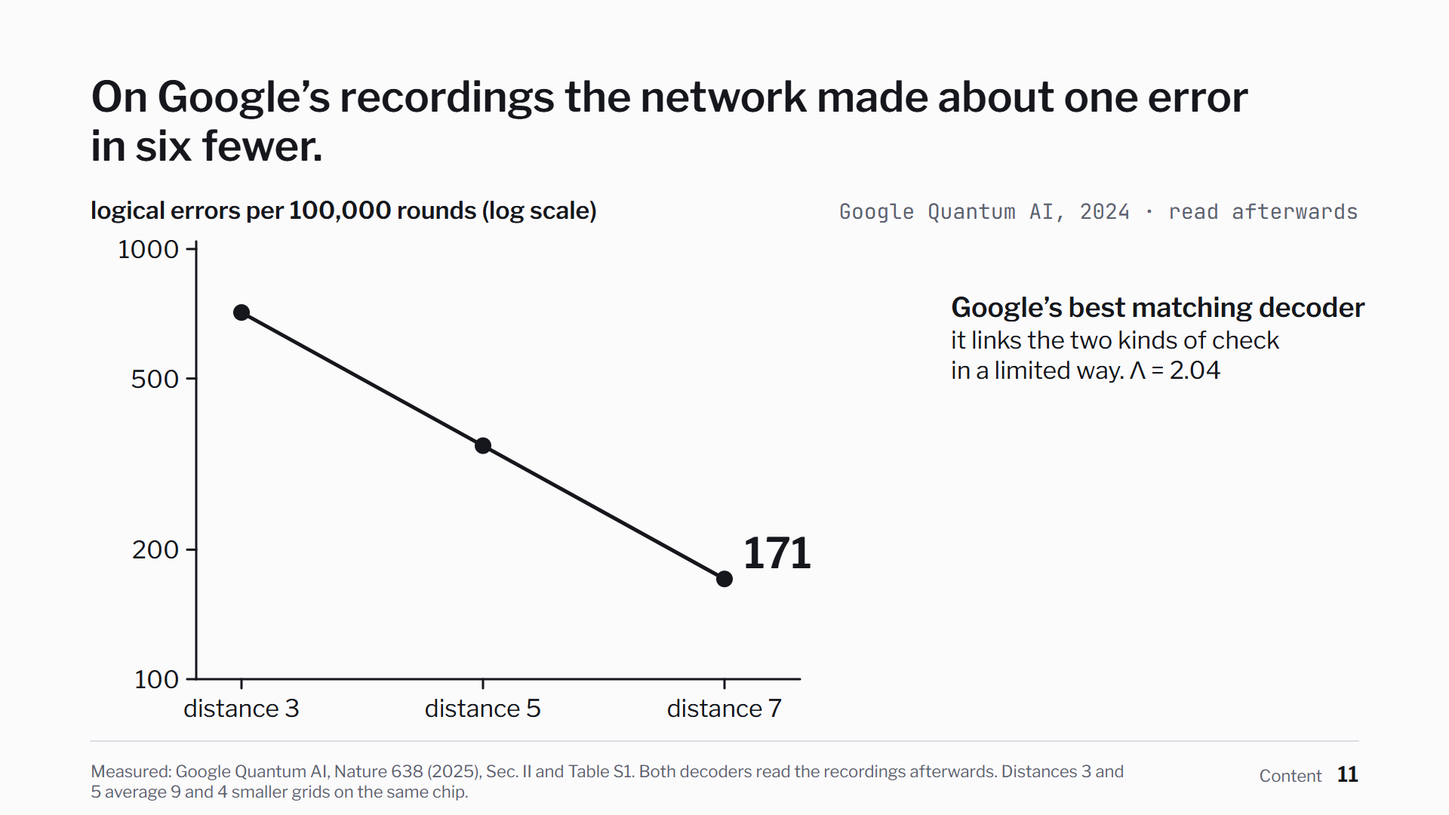
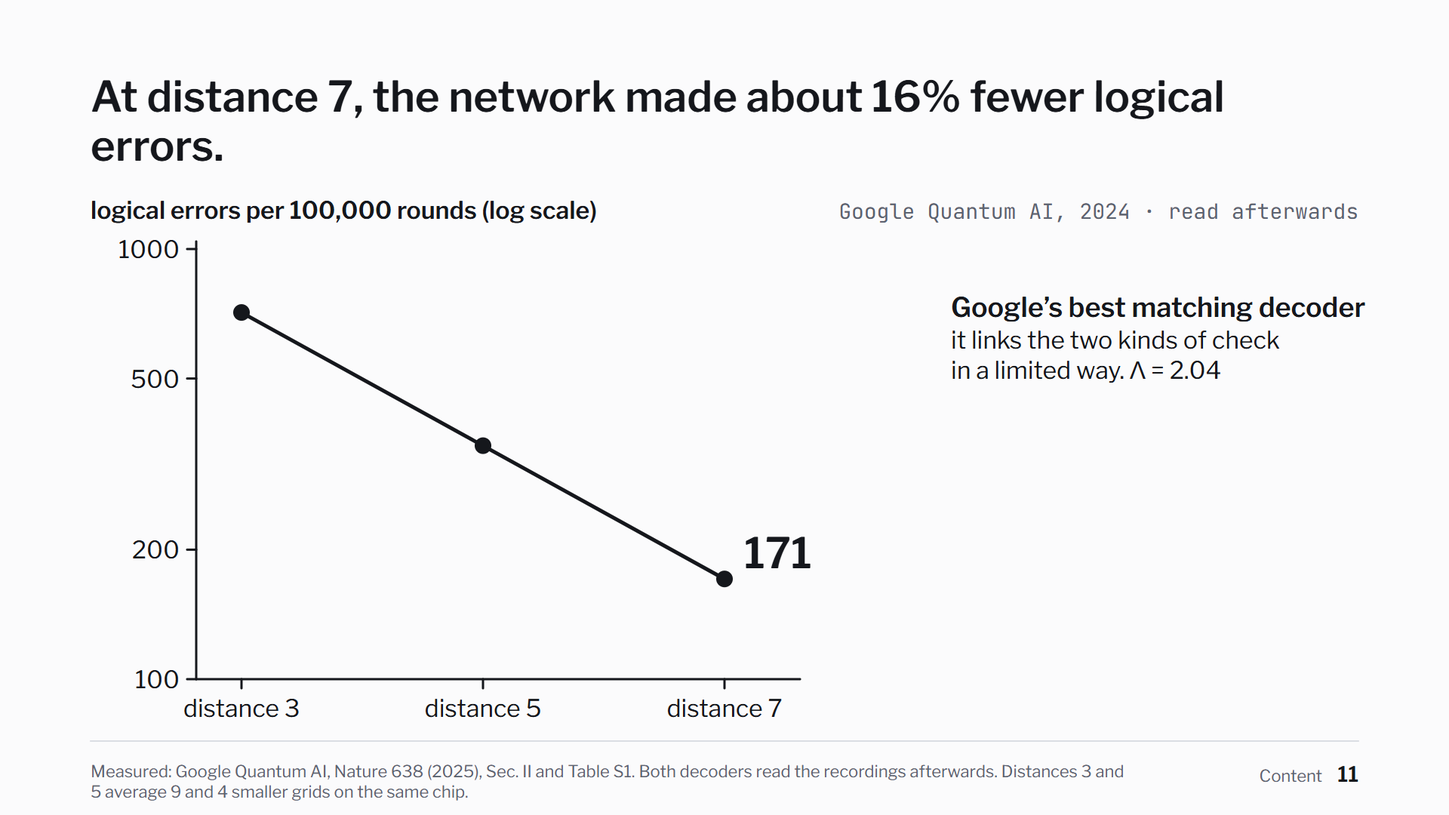
fix: qualify the measured quantum results

Changed region(s): [[0.0625, 0.0917, 0.875, 0.2139]]

diff --git a/articles/other-half/figures/noise.js b/articles/other-half/figures/noise.js
@@ -18,10 +18,10 @@ export const aspect = { wide: SIZE.wide[0] / SIZE.wide[1], tall: SIZE.tall[0] / 
 const WORDS = ['no', 'one', 'two', 'three', 'four', 'five', 'six', 'seven', 'eight'];
 
 function verdict(r) {
-  if (r.network_vs_correlated === 'level') return 'level with correlated';
+  if (r.network_vs_correlated === 'level') return 'intervals overlap';
   if (r.network_vs_correlated === 'ahead') return 'ahead of both';
   if (r.network_vs_plain === 'ahead') return 'between the two';
-  if (r.network_vs_plain === 'level') return 'level with plain';
+  if (r.network_vs_plain === 'level') return 'intervals overlap';
   return 'behind both';
 }
 // a round number just above v, for the top of a panel's scale
@@ -40,8 +40,8 @@ function build(el, ctx) {
   const runs = rows[0].network.pooled.shots;
   const svg = svgRoot(el, W, H,
     `Our own simulated runs at distance 5, network trained on ${Math.round(d.training_shots / 1e6)} million examples, ${nSeeds} seeds: share of runs in which each decoder was wrong at ${rows.length} noise levels. `
-    + rows.map((r) => `At ${pc(r.p)} the network is ${verdict(r)} (network ${pc(r.network.pooled.rate)}, plain matching ${pc(r.plain.pooled.rate)}, correlated matching ${pc(r.correlated.pooled.rate)})`).join('. ')
-    + '. At the lowest noise the network is level with correlated matching; as noise grows it falls behind it, and at the two highest levels it is behind plain matching too.');
+    + rows.map((r) => `At ${pc(r.p)} network versus matchers: ${verdict(r)} (network ${pc(r.network.pooled.rate)}, plain matching ${pc(r.plain.pooled.rate)}, correlated matching ${pc(r.correlated.pooled.rate)})`).join('. ')
+    + '. At the lowest noise the separate network and correlated matching intervals overlap. As noise grows the network fails more often than correlated matching, and at the two highest levels it also fails more often than plain matching.');
   svg.style.color = C.ink;
   const st = stage();
   const mono = { family: 'mono', size: 11.5, fill: C.muted };

diff --git a/talks/quantum/slides/01-recording/slide.js b/talks/quantum/slides/01-recording/slide.js
@@ -20,7 +20,7 @@ export default {
     T(toArticle(svg), L, 218, 'The other half of a quantum computer', { family: 'serif', size: 84, weight: 500 });
     if (b >= 1) {
       const [m, n] = data.suppression.decoders.map((d) => d.points.find((p) => p.distance === 7).per_100000_rounds);
-      const fewer = Math.round(m / (m - n));   // 171 / 28 ≈ 6: one error in six fewer
+      const fewer = Math.round(100 * (m - n) / m);
       T(svg, L, 298, this.title, { size: 48, weight: 600 });
       const [rx, ry] = at(1262, 410);
       T(svg, rx, ry, 'matching', { family: 'virgil', size: 44 });
@@ -29,7 +29,7 @@ export default {
       const [tx, ty] = at(1150, 750);
       T(svg, tx, ty, 'a neural network', { family: 'virgil', size: 44, anchor: 'end' });
       T(svg, tx, ty + 50, 'read afterwards:', { size: 32, weight: 600, fill: C.accent, anchor: 'end' });
-      T(svg, tx, ty + 92, `about one error in ${fewer === 6 ? 'six' : fewer} fewer`, { size: 32, weight: 600, fill: C.accent, anchor: 'end' });
+      T(svg, tx, ty + 92, `about ${fewer}% fewer logical errors`, { size: 32, weight: 600, fill: C.accent, anchor: 'end' });
     }
     frame(svg, {
       n: this.n, part: this.part,

diff --git a/talks/quantum/slides/11-google/slide.js b/talks/quantum/slides/11-google/slide.js
@@ -5,7 +5,7 @@ import { C, L, R, svgOf, T, frame, ln, pth, dot, inkLayer, PEN } from '../../kit
 
 export default {
   id: 'google', n: 11, part: 'Content', builds: 2, speaker: 'B',
-  title: 'On Google’s recordings the network made about one error in six fewer.',
+  title: 'At distance 7, the network made about 16% fewer logical errors.',
   clicks: ['Google’s best matching decoder', 'the network'],
   draw(page, b, data) {
     const svg = svgOf(page);

diff --git a/articles/other-half/text.md b/articles/other-half/text.md
@@ -21,7 +21,7 @@ Drawing: made with an image model from Alexander Rudaev's own line reference and
 
 A quantum chip can be excellent and the computer can still fail. The cause sits beside the chip: a program running on an ordinary computer.
 
-We came across this in a paper Google published in December 2024. It reports the first quantum memory that gets more reliable as it gets bigger, which nobody had managed before. One detail in it is easy to miss. Two programs read the same recording from the same chip and came out with different error rates. A neural network, a program that learns from examples, read it better than the standard program almost every experiment uses. {{GQA-2024}}
+We came across this in a paper Google published in December 2024. On its Willow chip, a surface-code memory got more reliable at each of three grid sizes. One detail in it is easy to miss. Two programs read the same recording from the same chip and came out with different error rates. A neural network, a program that learns from examples, read it better than the standard program almost every experiment uses. {{GQA-2024}}
 
 So we set ourselves three questions: what the program has to do, why a network can do it better, and at what cost. We answer them in the order we understood them.
 
@@ -134,7 +134,7 @@ Google first showed, in 2023, a grid of distance 5 that beat distance 3, but onl
 
 The factor by which the error shrinks per step is written **Λ** (lambda), and it decides how big a useful machine has to be. With Λ near 2, halving the error once more means going from distance 7 to distance 9: from 97 data and check qubits to 161. {{GQA-2024 OWN-ARITH}} That one halving costs 64 more qubits in the grid itself. Google used four extra qubits at distance 7 to remove leakage.
 
-Google read the same recorded data with two decoders. Its best matching decoder already links the two kinds of check in a limited way – the idea behind the correlated matching we use in section 9. It learns no rules of its own, though its error weights were tuned on the chip's data. It gave Λ = 2.04, and a neural network gave Λ = 2.14. At distance 7 the matching decoder's logical error rate was 171 per 100,000 rounds and the network's 143, about one in six fewer. {{GQA-2024}} Same chip, same data; only the reader changed.
+Google read the same recorded data with two decoders. Its best matching decoder already links the two kinds of check in a limited way – the idea behind the correlated matching we use in section 9. It learns no rules of its own, though its error weights were tuned on the chip's data. It gave Λ = 2.04, and a neural network gave Λ = 2.14. At distance 7 the matching decoder's logical error rate was 171 per 100,000 rounds and the network's 143, about 16% fewer. {{GQA-2024}} Same chip, same data; only the reader changed.
 
 Other labs have got below the threshold with other hardware, some with decoders that learn {{NA-2025 QTN-2026 QTN-PR-2026 USTC-2025}}, and IBM has shown in simulation a fast one that doesn't {{IBM-RELAY-2025 IBM-FPGA-2025}}. None of these results settles which route is best.
 
@@ -171,7 +171,7 @@ A December 2025 preprint reports that a network averaged under one millionth of 
 
 ## 9. What we measured ourselves
 
-We can't build a chip and we can't match Google's network. We can measure, in simulation, what a small neural decoder costs to train and run. The short answer: on the smallest grid our network soon beats plain matching; one grid larger it passed plain matching with a budget of about 250 million examples, and stayed behind correlated matching except at the lowest noise level. We simulate the surface code with Stim, a free simulator written at Google. {{STIM-2021}}
+We can't build a chip and we can't match Google's network. We can measure, in simulation, what a small neural decoder costs to train and run. The short answer: on the smallest grid our network soon beats plain matching; one grid larger it passed plain matching with a budget of about 250 million examples, and had a higher observed failure rate than correlated matching at every setting except the lowest. We simulate the surface code with Stim, a free simulator written at Google. {{STIM-2021}}
 
 We wanted three measurements. First, whether a small network beats matching, and how its results change with the tested training budgets at distances 3 and 5. Second, how long each decoder takes per run of three or five rounds on the same machine, next to how often it's wrong. Third, whether a network trained in simulation still works on the recordings Google has made public {{GQA-DATA-2022 GQA-DATA-2024}}, before and after it has seen some of them. We did the first, part of the second, and not the third.
 
@@ -183,7 +183,7 @@ Each training was repeated from different random starting points, or seeds: eigh
 
 :::scene learning
 
-@caption Our own runs, at a noise level of 0.5%. Share of simulated runs in which a decoder was wrong, against the number of examples the network had seen; one thin line per seed. The two level lines are plain and correlated matching, which need no examples. Distance 3: the network ends below both, but its lead over correlated matching is about what a library defect costs that decoder (see "A finding we didn't plan for"). Distance 5 after 66 million examples: above both. Distance 5 after 250 million: below plain matching, above correlated matching. Points along a curve are scored on 1 million runs, not the final test's 2 million, so the crossings are less sharp than the end values.
+@caption Our own runs, at a noise level of 0.5%. Share of simulated runs in which a decoder was wrong, against the number of examples the network had seen; one thin line per seed. The two level lines are plain and correlated matching, which need no examples. Distance 3: the network ends below both, but its lead over correlated matching is about the size of the anomaly we observed with that decoder (see "A finding we didn't plan for"). Distance 5 after 66 million examples: above both. Distance 5 after 250 million: below plain matching, above correlated matching. Points along a curve are scored on 1 million runs, not the final test's 2 million, so the crossings are less sharp than the end values.
 
 @step 0
 **Distance 3.** Here the network beats plain matching, and early. After about 66 million examples it failed in 1.48% of runs, its eight seeds between 1.46% and 1.49%. Plain matching failed in 1.72% and correlated matching in 1.66%. The curves first dip below plain matching at 6.6 million examples in four seeds and at 9.3 million in the other four. By 13 million all eight were at or below correlated matching. {{OWN-D3}} That second win we don't count. In our library version correlated matching mishandles six single errors, and by a first-order estimate that costs it about the whole gap of 0.18 percentage points (see "A finding we didn't plan for").
@@ -199,7 +199,7 @@ Each training was repeated from different random starting points, or seeds: eigh
 At distance 3 the best answer for every pattern can simply be looked up. A table built from 200 million runs per noise level, a hundred times the test set, holds the more frequent answer for each pattern of fired checks. It failed in 1.47% of runs. {{OWN-D3}} Its runs come from different random seeds than the test runs, and for a pattern it never saw, or saw equally often with either answer, it falls back to plain matching: about 0.15% of the test runs at 0.5%. {{OWN-D3}} That table is our estimate of the best possible. The network's 1.48% is barely above it.
 
 :::figure noise wide
-Distance 5, network trained on about 250 million examples: share of runs in which each decoder was wrong, at eight noise levels, with 95% intervals. Five seeds together, 10 million runs per noise level. At 0.1% the network and correlated matching can't be told apart. From 0.2% the network is behind correlated matching, and from 0.8% it is behind plain matching too. Our own runs.
+Distance 5, network trained on about 250 million examples: share of runs in which each decoder was wrong, at eight noise levels, with 95% intervals. Five seeds together, 10 million runs per noise level. At 0.1% their separate 95% intervals overlap. We did not estimate uncertainty for the paired difference. From 0.2% the network is behind correlated matching, and from 0.8% it is behind plain matching too. Our own runs.
 :::
 
 **A finding we didn't plan for.** We had expected correlated matching to be at least as good as plain matching everywhere. At distance 5 it was, at every noise level we tried. At distance 3 and low noise it was worse. On 4 million runs at a noise level of 0.1%, with both decoders reading the same runs, plain matching failed in 0.075% (0.073% to 0.078%). Correlated matching failed in 0.113% (0.109% to 0.116%), about one and a half times as many failures. At 0.3% it was still worse, 0.705% against 0.659%. From 0.4% upwards it was the better one. When we stored the other kind of value, it was again worse at 0.1%: 0.0986% against 0.0856%. {{OWN-CORR OWN-D3}}
@@ -214,7 +214,7 @@ At distances 5 and 7 no single error defeats correlated matching. At distance 5 
 
 **Learning rate.** How many more examples it would take to reach correlated matching, we can't say. The curves were still falling at the last point. But the last fifth of every run also lowers the learning rate, the size of the network's adjustments, and that alone brings the error down; with the same seed, a long and a short run are identical until the short one starts lowering it, at 52 million examples. {{OWN-D5-250M}} So the final slope may promise too much.
 
-**Against the noise level.** At the lowest noise level, one the network never saw in training, it is level with correlated matching: 0.0099% of runs failed, about one in ten thousand, against 0.0105%. From a noise level of 0.2% it fails more often than correlated matching: 8% more there, and a fifth to a quarter more from 0.4% on. Against plain matching it is ahead up to 0.6%, where four of five seeds still lead and the fifth is level, and behind in every seed from 0.8%. {{OWN-D5-250M}} The pooled intervals count only the chance in the test runs; the five networks differ from each other far more.
+**Against the noise level.** At the lowest noise level, one the network never saw in training, 0.0099% of network runs failed, about one in ten thousand, against 0.0105% for correlated matching. Their separate 95% intervals overlap. From a noise level of 0.2% it fails more often than correlated matching: 8% more there, and a fifth to a quarter more from 0.4% on. Against plain matching it is ahead up to 0.6%, where four of five seeds still lead and the fifth is level, and behind in every seed from 0.8%. {{OWN-D5-250M}} The pooled intervals count only the chance in the test runs; the five networks differ from each other far more.
 
 **Over noise levels.** The five long runs were also tested at eight noise levels, with 2 million runs each. The table pools them, 10 million runs per noise level, and gives the lowest and the highest seed beside the network's value. {{OWN-D5-250M}}
 
@@ -233,7 +233,7 @@ At distances 5 and 7 no single error defeats correlated matching. At distance 5 
 
 Decoding we timed only roughly: on one laptop core, with an untrained network of the same size, as an average over a large batch, and on a machine that has to emulate the processor our software was built for. There the network took between 14 and 27 millionths of a second per run whatever the noise, while matching got faster as errors got rarer. At distance 3 the network was about 20 times slower than plain matching. At distance 5, taking its two timings together (about 17 millionths of a second), it was about twice as slow at a noise level of 0.5% and about ten times as slow at 0.1%. Repeat timings of the same network varied by about half, so these ratios are rough. {{OWN-TIME}} Per round, these times are three or five times shorter. None of this is a live decoder on its own hardware, so we don't set it against the chip's clock.
 
-**A second implementation.** We also had the main result rerun by code that shares nothing with ours: a script and network written by an AI agent from only a description of the claim, without seeing ours, and run on Kaggle. At distance 3 its networks also beat plain matching, failing in 1.46% to 1.48% of runs against 1.71% to 1.73%, also at our network size; against correlated matching (1.66% to 1.67%) the same library defect may apply. At distance 5, after about 250 million examples, its network also ended between the two matchers, closer to correlated matching than ours: 1.15% and 1.16% against 1.09%. Unlike ours, they trained only at their test noise level, 0.5%, which favours them there. But that network is about twenty times larger, with 3.3 million adjustable numbers. At our size its script reached only 1.51%, behind plain matching, where ours reached 1.33%. It ran two seeds for each larger network at the main setting and one at our size, and did not test the finding about correlated matching. {{OWN-REPL}} So the order of the three decoders held up where it is clean, at distance 5. How far a small network gets depends on its training.
+**A second implementation.** We also had the main result rerun by code that shares nothing with ours: a script and network written by an AI agent from only a description of the claim, without seeing ours, and run on Kaggle. At distance 3 its networks also beat plain matching, failing in 1.46% to 1.48% of runs against 1.71% to 1.73%, also at our network size; against correlated matching (1.66% to 1.67%) the same anomaly may apply. At distance 5, after about 250 million examples, its network also ended between the two matchers, closer to correlated matching than ours: 1.15% and 1.16% against 1.09%. Unlike ours, they trained only at their test noise level, 0.5%, which favours them there. But that network is about twenty times larger, with 3.3 million adjustable numbers. At our size its script reached only 1.51%, behind plain matching, where ours reached 1.33%. It ran two seeds for each larger network at the main setting and one at our size, and did not test the finding about correlated matching. {{OWN-REPL}} So the order of the three decoders held up where it is clean, at distance 5. How far a small network gets depends on its training.
 
 :::
 
@@ -265,7 +265,7 @@ Our numbers come from small grids and from a network far smaller than Google's. 
 | Logical error | Real errors and the decoder's correction together make a line across the grid: the stored value changes and no check fires | Section 5 |
 | Matching | The standard decoder: it joins fired checks to each other or to the edge along the shortest lines | Section 6 |
 | Λ (lambda) | The factor by which the logical error rate shrinks when the distance grows by two | Section 7 |
-| Noise level | In our simulation, the chance that any one operation goes wrong | Section 9 |
+| Noise level | The probability shared by the four circuit-noise settings in our simulation | Section 9 |
 | Correlated matching | Matching in two passes, where the first pass informs the second | Section 9 |
 
 ## How this was made

diff --git a/talks/quantum/CUES.md b/talks/quantum/CUES.md
@@ -7,30 +7,30 @@ Generated by `node tools/qdeck.mjs` from each slide's `notes.md`. Times: the not
 | 1 | 1 recording | 0:00 | 1 of 2 | the talk, the drawing |  |
 | 2 | 1 recording |  | 2 of 2 | two readers, two rates | One recording from Google’s chip gave two error rates. |
 | 3 | 2 threshold | 0:56 | 1 of 1 | the hardware error rate against the size of the job | One uncorrected slip can spoil the answer. |
-| 4 | 3 logical | 1:43 | 1 of 1 | three qubits together; no copy | A logical qubit keeps its value in how its qubits relate. |
-| 5 | 4 grid | 2:34 | 1 of 3 | distance 3 |  |
+| 4 | 3 logical | 1:42 | 1 of 1 | three qubits together; no copy | A logical qubit keeps its value in how its qubits relate. |
+| 5 | 4 grid | 2:33 | 1 of 3 | distance 3 |  |
 | 6 | 4 grid |  | 2 of 3 | distance 5 |  |
 | 7 | 4 grid |  | 3 of 3 | distance 7 | Only about half of a logical qubit’s qubits store anything. |
 | 8 | 5 checks | 3:04 | 1 of 3 | the grid and its two kinds of check |  |
 | 9 | 5 checks |  | 2 of 3 | one flip: two checks fire |  |
 | 10 | 5 checks |  | 3 of 3 | a line of two: only its end fires | A check fires when its answer changes. |
-| 11 | 6 film | 4:14 | 1 of 3 | the film and its enlarged frame |  |
+| 11 | 6 film | 4:13 | 1 of 3 | the film and its enlarged frame |  |
 | 12 | 6 film |  | 2 of 3 | what the film is |  |
 | 13 | 6 film |  | 3 of 3 | what a frame says | One film frame shows what changed in that round. |
-| 14 | 7 matching | 5:06 | 1 of 1 | the pairing puzzle | The standard decoder, matching, pairs fired checks along the cheapest lines. |
+| 14 | 7 matching | 5:05 | 1 of 1 | the pairing puzzle | The standard decoder, matching, pairs fired checks along the cheapest lines. |
 | 15 | 8 silent | 5:45 | 1 of 1 | the flips, the fired check, the silent error | One check fires. The wrong correction leaves a silent error. |
 | 16 | 9 patterns | 6:26 | 1 of 1 | distinct patterns and their share of rounds | We counted patterns and how often they occur. |
 | 17 | 10 two-ways | 7:24 | 1 of 2 | the three fired checks and plain matching’s choice |  |
 | 18 | 10 two-ways |  | 2 of 2 | the two leading cases and their total | Two likely error patterns point to the same logical outcome. |
 | 19 | 11 google | 8:26 | 1 of 2 | Google’s best matching decoder |  |
-| 20 | 11 google |  | 2 of 2 | the network | On Google’s recordings the network made about one error in six fewer. |
-| 21 | 12 clock | 9:29 | 1 of 2 | the chip’s rounds and the network’s answers |  |
+| 20 | 11 google |  | 2 of 2 | the network | At distance 7, the network made about 16% fewer logical errors. |
+| 21 | 12 clock | 9:28 | 1 of 2 | the chip’s rounds and the network’s answers |  |
 | 22 | 12 clock |  | 2 of 2 | live matching, another setup | The network needed 24 millionths of a second for a round the chip finishes in 1.1. |
-| 23 | 13 method | 10:29 | 1 of 2 | the pipeline |  |
+| 23 | 13 method | 10:28 | 1 of 2 | the pipeline |  |
 | 24 | 13 method |  | 2 of 2 | what it is compared with; the stop rule | We trained a small network in simulation and wrote down our stop rule first. |
-| 25 | 14 ours | 11:30 | 1 of 2 | distance 3; distance 5 after 66 million |  |
+| 25 | 14 ours | 11:29 | 1 of 2 | distance 3; distance 5 after 66 million |  |
 | 26 | 14 ours |  | 2 of 2 | distance 5, about 250 million | Our distance-5 network finished between the two matchers. |
-| 27 | 15 properties | 12:26 | 1 of 2 | four properties |  |
+| 27 | 15 properties | 12:25 | 1 of 2 | four properties |  |
 | 28 | 15 properties |  | 2 of 2 | laptop estimate and the open recordings test | A decoder gives no quantum speed-up, but its accuracy changes how big a useful machine must be. |
 | 29 | end questions |  | 1 of 1 | questions | Questions |
 | 30 | BB1 uncompute |  | 1 of 1 | backup | A helper learns only the parity, and is reset for the next round. |
@@ -42,11 +42,11 @@ Generated by `node tools/qdeck.mjs` from each slide's `notes.md`. Times: the not
 | 36 | BB7 preprint |  | 1 of 1 | backup | AlphaQubit 2 reports the throughput needed for a superconducting chip. |
 | 37 | BB8 recordings |  | 1 of 1 | backup | The test on Google’s public recordings is still open. |
 
-**Main talk:** 1565 words, 13:30 in all. Contrast sentences in the notes: 0.
+**Main talk:** 1563 words, 13:29 in all. Contrast sentences in the notes: 0.
 
 | Slide | Seconds | Words |
 | ---: | ---: | ---: |
-| 1 recording | 56 | 110 |
+| 1 recording | 56 | 109 |
 | 2 threshold | 46 | 92 |
 | 3 logical | 51 | 102 |
 | 4 grid | 31 | 51 |
@@ -56,7 +56,7 @@ Generated by `node tools/qdeck.mjs` from each slide's `notes.md`. Times: the not
 | 8 silent | 41 | 80 |
 | 9 patterns | 58 | 99 |
 | 10 two-ways | 62 | 123 |
-| 11 google | 63 | 124 |
+| 11 google | 62 | 123 |
 | 12 clock | 60 | 117 |
 | 13 method | 62 | 122 |
 | 14 ours | 55 | 108 |

diff --git a/talks/quantum/slides/01-recording/notes.md b/talks/quantum/slides/01-recording/notes.md
@@ -1,8 +1,8 @@
 # 1 · One recording from Google's chip gave two error rates
 
-In December 2024 Google published the first quantum memory clearly below the threshold: it gets more reliable as it gets bigger. In it, the chip ran and everything it reported was recorded.
+In December 2024 Google reported a surface-code memory that got more reliable at each of three grid sizes. In it, the chip ran and everything it reported was recorded.
 
-Then two programs read the same recording. The standard one, matching, and a neural network, a program that learns from examples. The network's error rate came out about one in six lower.
+Then two programs read the same recording. The standard one, matching, and a neural network, a program that learns from examples. At distance 7, the network's error rate came out about sixteen percent lower.
 
 That reader is a classical program, and in this course it is where machine learning works for quantum hardware. We asked what it has to do, why a network can do it better, and what that costs.
 

diff --git a/talks/quantum/slides/11-google/notes.md b/talks/quantum/slides/11-google/notes.md
@@ -1,5 +1,5 @@
-# 11 · On Google's recordings the network made about one error in six fewer
+# 11 · At distance 7, the network made about 16% fewer logical errors
 
 Back to the threshold. On Google’s 2024 chip each step from distance 3 to 5 to 7 cut the logical error rate roughly in half. Lambda is the factor by which the rate falls at each step. Google read the same recordings with two decoders. Its best matching decoder already links the two kinds of check in a limited way, and reached lambda 2.04: 171 errors per 100,000 rounds at distance 7. A neural network, trained on simulations and then on the chip's own data, reached lambda 2.14: 143. Learning decoders can also take in errors that plain matching's picture has no place for, like qubits that slip into a third state.
 
-**On Google's recordings the network made about one error in six fewer.**
+**At distance 7, the network made about 16% fewer logical errors.**

diff --git a/talks/quantum/slides/01-recording/sources.md b/talks/quantum/slides/01-recording/sources.md
@@ -4,5 +4,5 @@
 |---|---|---|
 | Matching, distance 7 | 171 logical errors per 100,000 rounds | Google Quantum AI, Nature 638 (2025), Sec. II (`articles/other-half/data/suppression.json`) |
 | Network, distance 7 | 143 per 100,000 rounds | same |
-| "about one error in six fewer" | 171 / (171 − 143) = 6.1 | our arithmetic from the two values |
+| "about 16% fewer logical errors" | (171 − 143) / 171 ≈ 16% | our arithmetic from the two values |
 | The drawing | forge element `deck-reread`, round 2, candidate 2 | Paper Studio `forge/out/manifest.json`; references: his line (`refs/hand.png`), the article's film drawing, "Super-8-mm-film-on-a-spool-02.jpg" (CEphoto, Uwe Aranas, CC BY-SA 3.0), "Black mid tower case.jpg" (TheJosh, public domain) |

diff --git a/talks/quantum/slides/b5-noise-table/notes.md b/talks/quantum/slides/b5-noise-table/notes.md
@@ -1,3 +1,3 @@
 # B5 · The noise table
 
-At 0.1% the network and correlated matching can't be told apart. From 0.2% the network is behind correlated matching, and from 0.8% behind plain matching too.
+At 0.1% the separate 95% intervals for the network and correlated matching overlap. We did not estimate the uncertainty of their paired difference. From 0.2% the network is behind correlated matching, and from 0.8% behind plain matching too.
